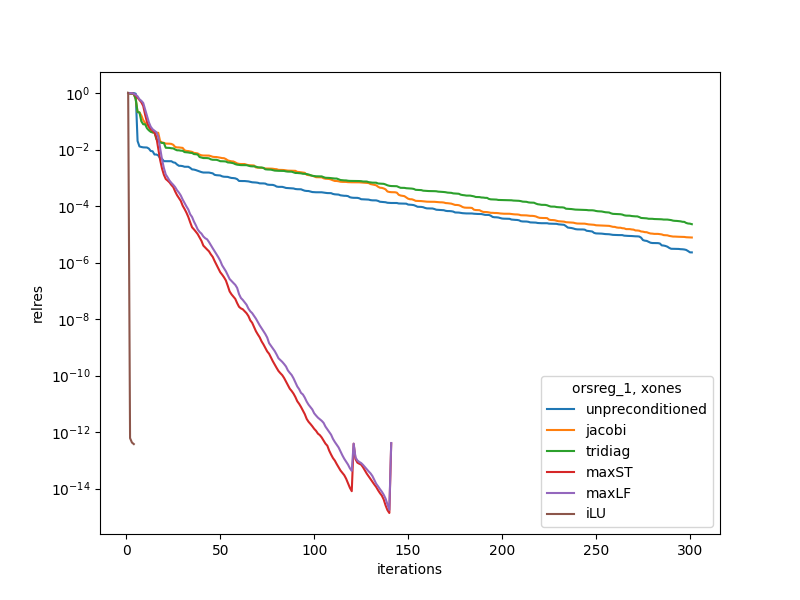
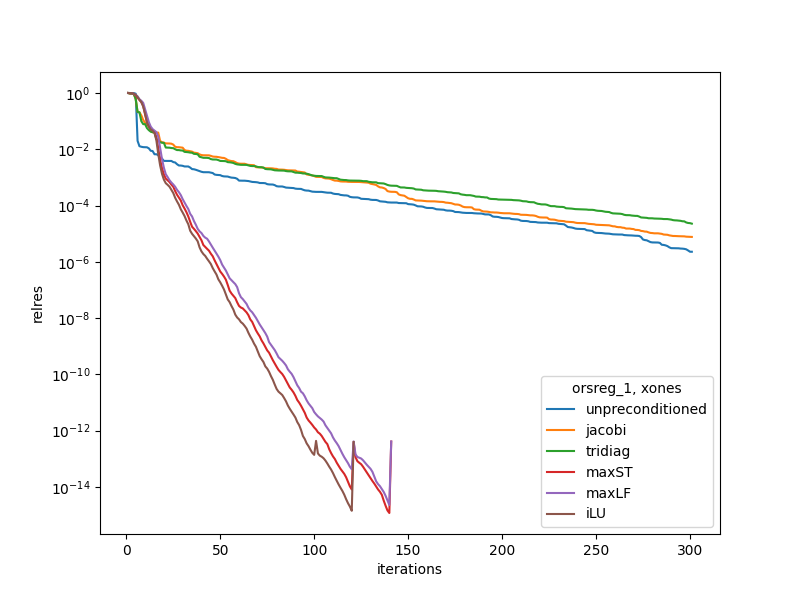
add fre plots

diff --git a/python/graph.py b/python/graph.py
@@ -17,6 +17,7 @@ from scipy.io import mmread
 from scipy import sparse
 from pyamg import krylov
 
+
 # %% Sparse matrix helpers
 def sparse_is_symmetric(mtx, tol=1e-10):
     """ Check a matrix for numerical symmetry
@@ -241,11 +242,11 @@ def run_trial(mtx, x, M, k_max_outer, k_max_inner):
 
         # Normalize to relative residual
         relres = np.array(residuals) / np.linalg.norm(b)
-        
+
         # Compute forward relative error
         x_diff = np.matrix(counter.xk) - x.T
         fre = np.linalg.norm(x_diff, axis=1) / np.linalg.norm(x)
-        
+
         return {
             'x':  x,
             'fre': fre.tolist(),
@@ -358,14 +359,23 @@ def run_trial_precond(mtx, x, k_max_outer=10, k_max_inner=20, title=None, title_
 
 
     # Use logarithmic scale for relative residual (y-scale)
-    fig, ax = plt.subplots()
-    fig.set_size_inches(8, 6)
-    fig.set_dpi(300)
-    
-    ax.set_yscale('log')
-    ax.set_xlabel('iterations')
-    ax.set_ylabel('relres')
+    fig1, ax1 = plt.subplots()    
+    fig1.set_size_inches(8, 6)
+    fig1.set_dpi(300)
 
+    ax1.set_yscale('log')
+    ax1.set_xlabel('iterations')
+    ax1.set_ylabel('relres')
+
+    # TODO: subplot for relres (left) and forward relative error (right)
+    fig2, ax2 = plt.subplots()
+    fig2.set_size_inches(8, 6)
+    fig2.set_dpi(300)
+    
+    ax2.set_yscale('log')
+    ax2.set_xlabel('iterations')
+    ax2.set_ylabel('fre')
+    
     for i, label in enumerate(labels):
         M = preconds[i]
 
@@ -383,14 +393,18 @@ def run_trial_precond(mtx, x, k_max_outer=10, k_max_inner=20, title=None, title_
                 label, result['iters'], sc[i], sd[i], relres[-1], fre[-1]))
     
             # Plot results for specific preconditioner
-            # TODO: subplot for relres (left) and forward relative error (right)
-            ax.plot(range(1, len(relres)+1), relres, label=label)
+            ax1.plot(range(1, len(relres)+1), relres, label=label)
+            ax2.plot(range(1, len(fre)+1), fre, label=label)
 
         else:
             warnings.warn(f'failed to solve {label} system')
 
-    ax.legend(title=f'{title}, x{title_x}')
-    fig.savefig(f'{title}_x{title_x}.png')
+    ax1.legend(title=f'{title}, x{title_x}')
+    fig1.savefig(f'{title}_x{title_x}.png')
+    
+    ax2.legend(title=f'{title}, x{title_x}')
+    fig2.savefig(f'{title}_x{title_x}_fre.png')
+
     plt.close()
     
 
